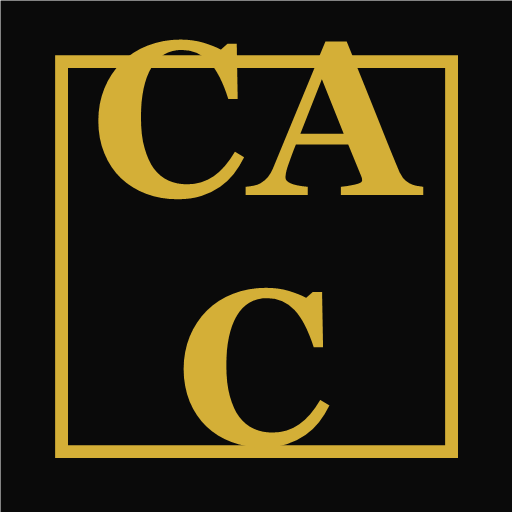
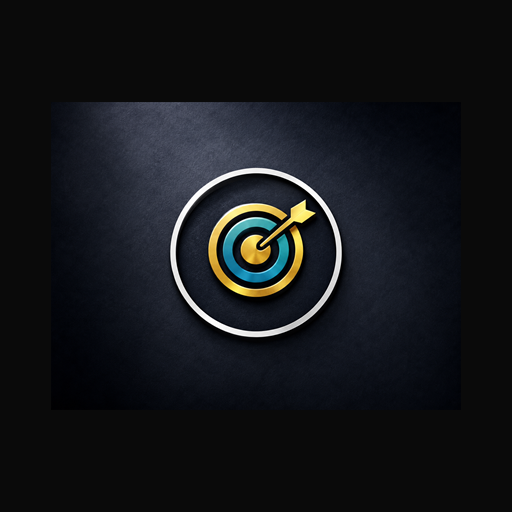
feat(pwa): íconos desde Logo2 + OG image (portada) para previews WhatsApp

diff --git a/src/app/layout.tsx b/src/app/layout.tsx
@@ -12,6 +12,7 @@ const inter = Inter({
 });
 
 export const metadata: Metadata = {
+  metadataBase: new URL('https://camino-al-closing.vercel.app'),
   title: {
     default: brand.full,
     template: `%s — ${brand.name}`,
@@ -24,7 +25,29 @@ export const metadata: Metadata = {
       { url: '/icon-192.png', sizes: '192x192', type: 'image/png' },
       { url: '/icon-512.png', sizes: '512x512', type: 'image/png' },
     ],
-    apple: [{ url: '/icon-192.png', sizes: '192x192', type: 'image/png' }],
+    apple: [{ url: '/apple-touch-icon.png', sizes: '180x180', type: 'image/png' }],
+  },
+  openGraph: {
+    type: 'website',
+    url: 'https://camino-al-closing.vercel.app',
+    siteName: brand.name,
+    title: brand.full,
+    description: brand.description,
+    locale: 'es_AR',
+    images: [
+      {
+        url: '/portada.png',
+        width: 1672,
+        height: 941,
+        alt: brand.full,
+      },
+    ],
+  },
+  twitter: {
+    card: 'summary_large_image',
+    title: brand.full,
+    description: brand.description,
+    images: ['/portada.png'],
   },
   appleWebApp: {
     capable: true,